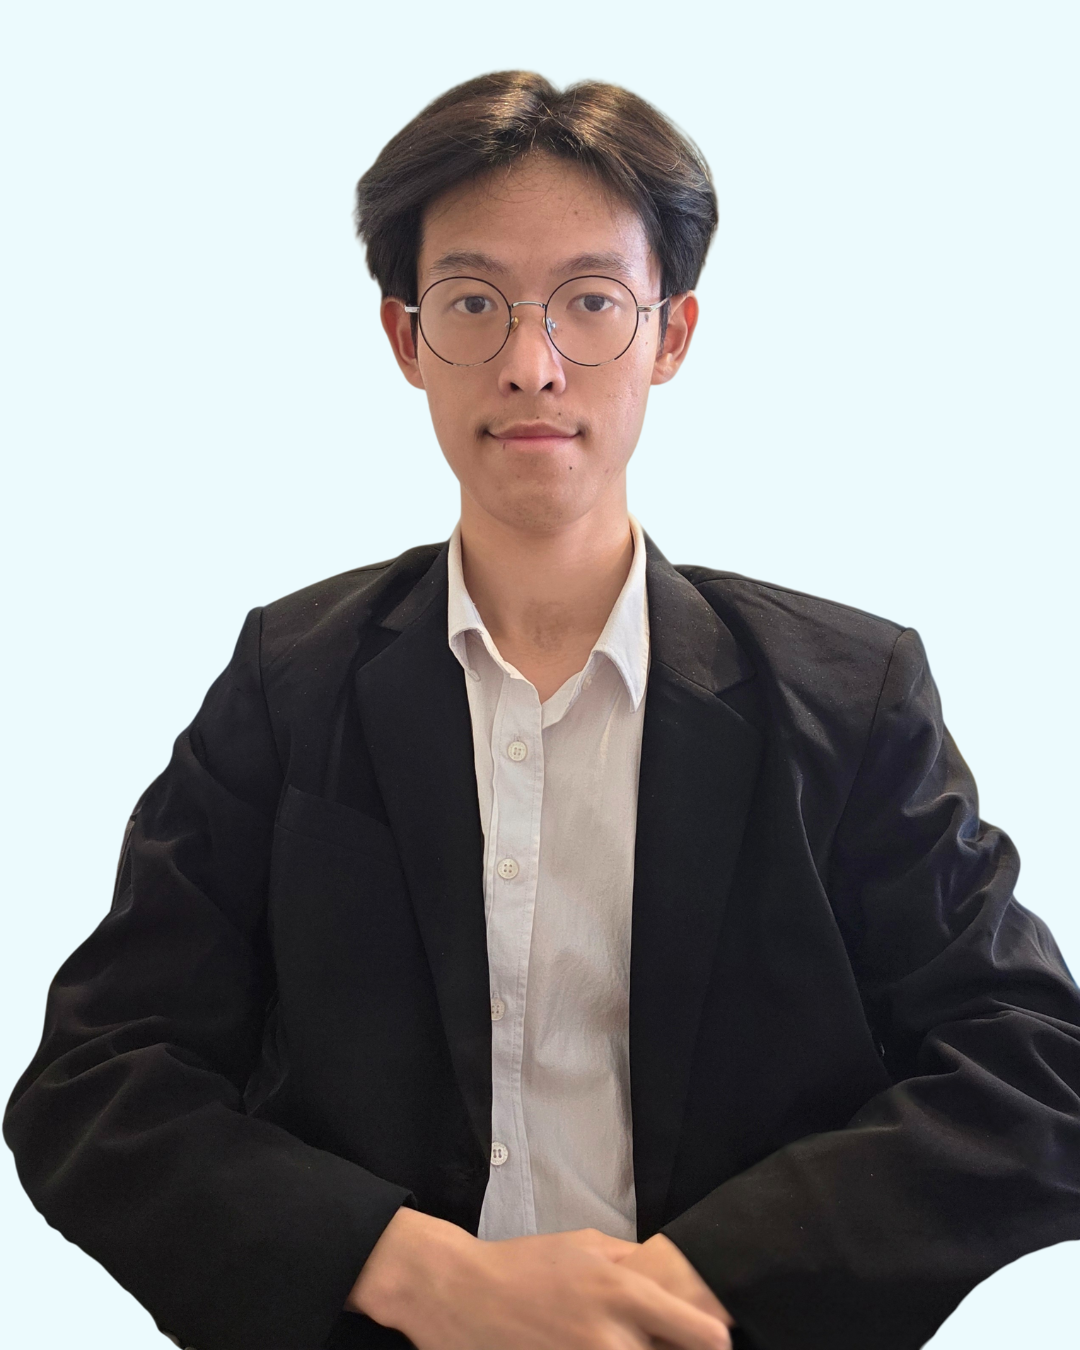
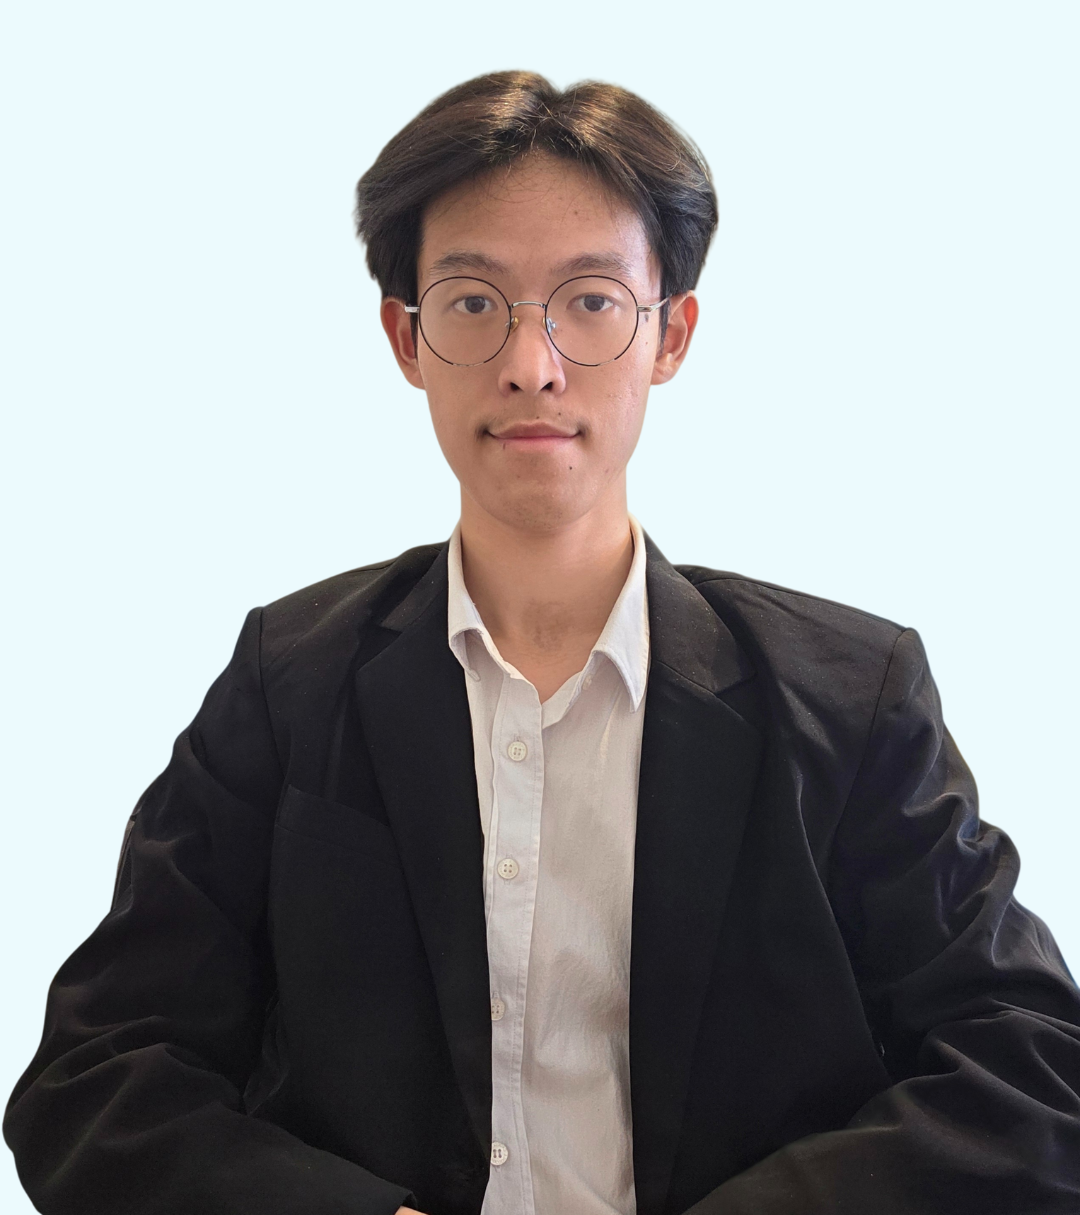
Feat: update team image

Changed region(s): [[0.0, 0.0305, 1.0, 1.0], [0.6417, 0.8527, 0.7333, 0.9136], [0.1222, 0.8527, 0.1528, 0.8831]]

diff --git a/frontend/src/data/team.ts b/frontend/src/data/team.ts
@@ -14,7 +14,7 @@ export const teamMembers: TeamMember[] = [
     name: "Aqnhatul Shabrina",
     role: "Business Lead",
     image:
-      "",
+      "Images/profile/aqna.jpeg",
     linkedin: "https://www.linkedin.com/in/aqnhatul-shabrina-341643320/",
   },
 ];
